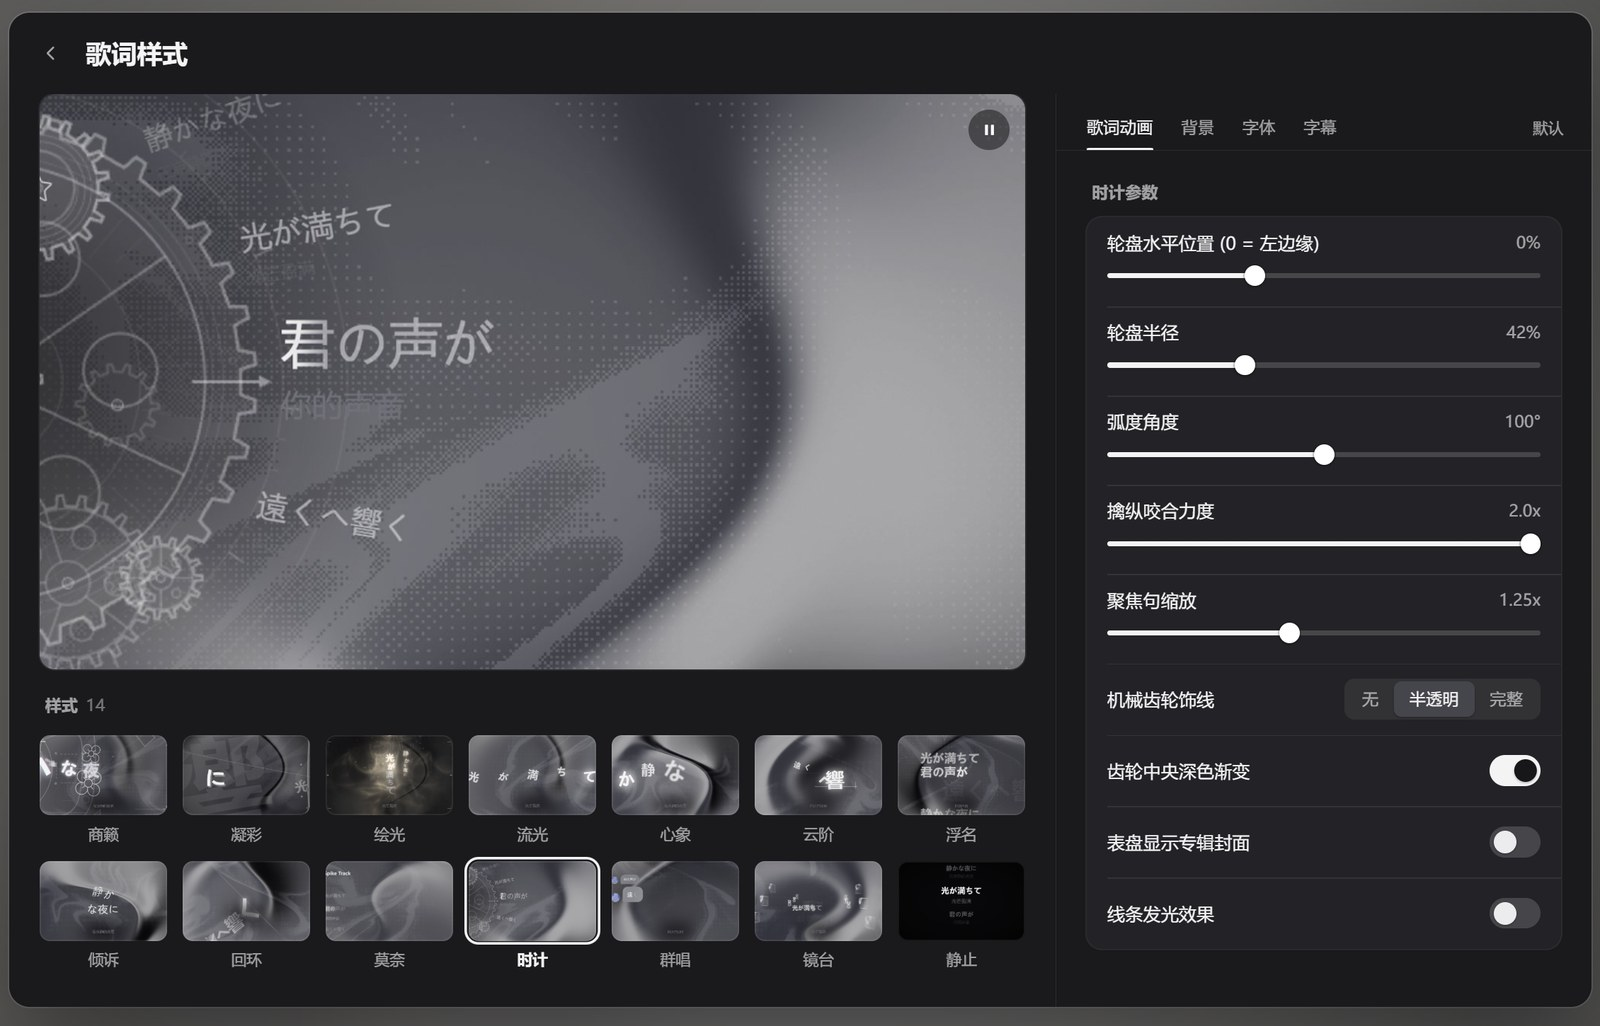
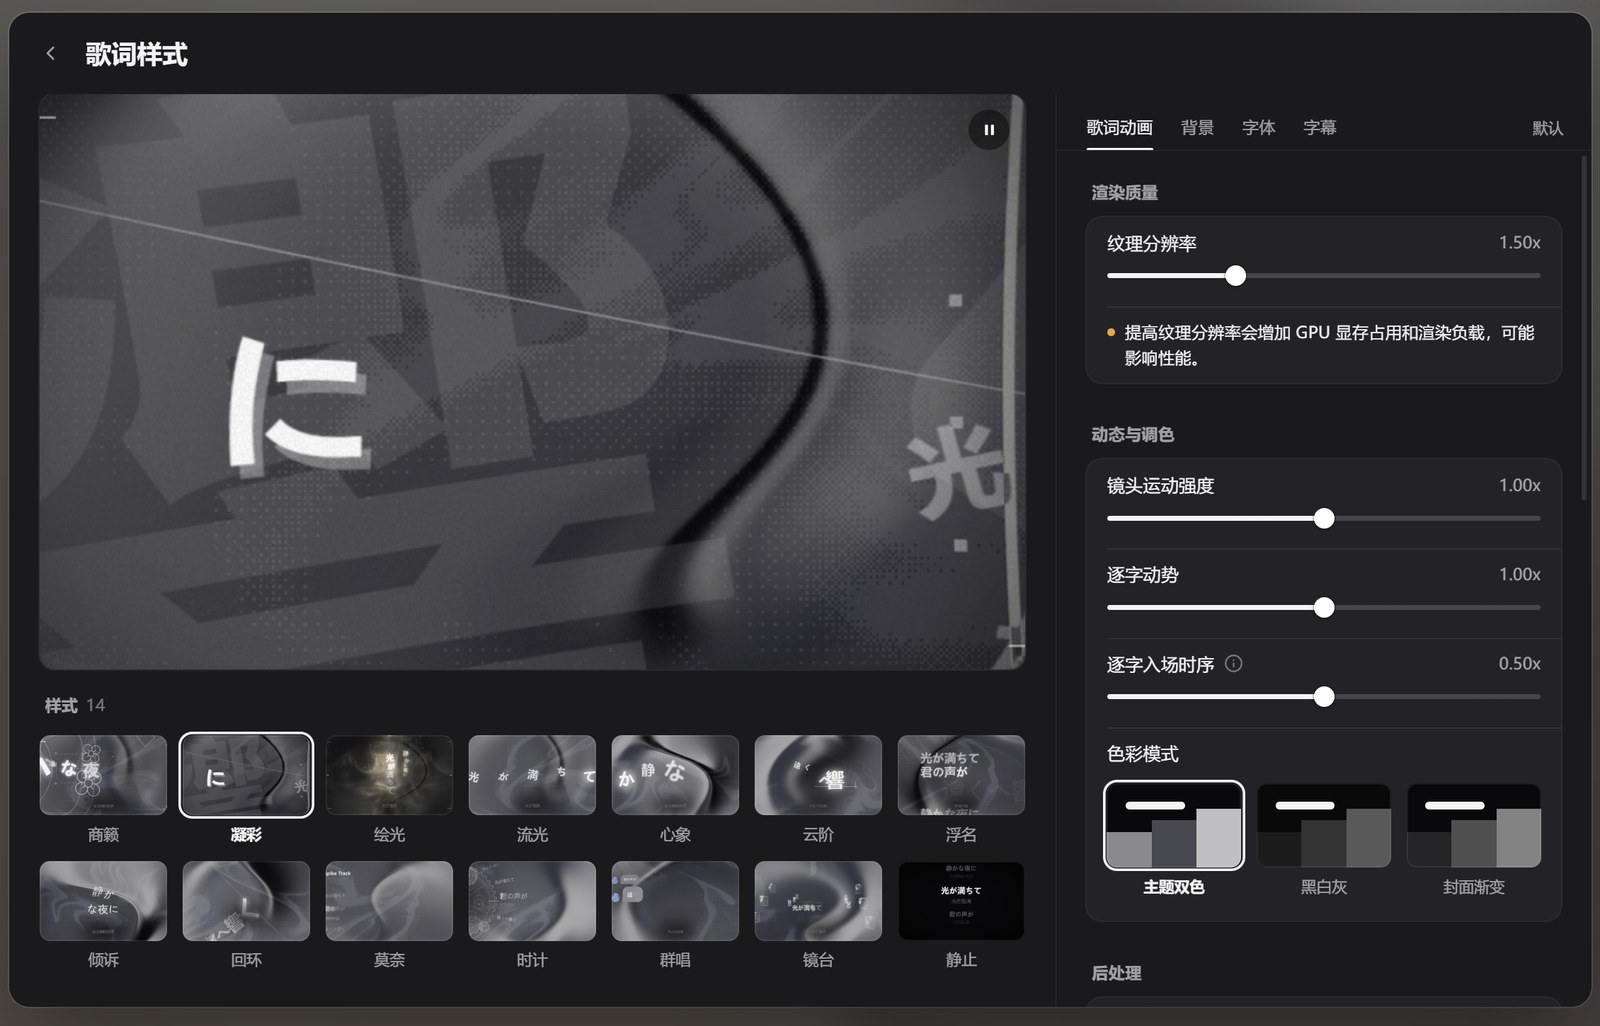
spw-folia v0.1.4: lyric-style preview follows selected style

diff --git a/poc/settings-ui/src/model/StylePreview.tsx b/poc/settings-ui/src/model/StylePreview.tsx
@@ -1,8 +1,13 @@
 /* The stage's big sample frame. Folia draws its live renderer here; the injected settings window
  * shows a real captured frame of the selected style instead (docs/folia-spec/assets.md explains
- * why: the live renderer needs the full playback data pipeline). Switching styles crossfades. */
-import React, { useEffect, useState } from 'react';
-import { stylePreviewUrl } from './assetBase';
+ * why: the live renderer needs the full playback data pipeline).
+ *
+ * Switching styles crossfades: the outgoing frame stays behind while the incoming one animates in
+ * via the `spw-preview-in` CSS keyframes. NOTE: a previous implementation drove both layers from a
+ * `fading` boolean inside an effect keyed on [src, current]; because setCurrent() retriggered the
+ * effect, its cleanup cancelled the crossfade timers and the preview could stay on the old style
+ * (reported m03519). This version keys the effect on `src` only and never blocks the incoming frame. */
+import React, { useEffect, useRef, useState } from 'react';
 import { getStyleEntry } from './styles';
 import type { StyleMode } from './settings';
 
@@ -14,30 +19,20 @@ const CROSSFADE_MS = 220;
 
 const StylePreview: React.FC<StylePreviewProps> = ({ mode }) => {
     const src = getStyleEntry(mode).thumb;
-    const [current, setCurrent] = useState(src);
     const [previous, setPrevious] = useState<string | null>(null);
-    const [fading, setFading] = useState(false);
+    const lastSrc = useRef<string>(src);
 
     useEffect(() => {
-        if (src === current) return undefined;
-        setPrevious(current);
-        setCurrent(src);
-        setFading(false);
-        // Two frames: start the outgoing one opaque, then flip so the incoming image fades in.
-        const raf = requestAnimationFrame(() => setFading(true));
-        const timer = setTimeout(() => {
-            setPrevious(null);
-            setFading(false);
-        }, CROSSFADE_MS);
-        return () => {
-            cancelAnimationFrame(raf);
-            clearTimeout(timer);
-        };
-    }, [src, current]);
+        if (lastSrc.current === src) return undefined;
+        setPrevious(lastSrc.current);
+        lastSrc.current = src;
+        const timer = setTimeout(() => setPrevious(null), CROSSFADE_MS);
+        return () => clearTimeout(timer);
+    }, [src]);
 
     return (
         <>
-            {previous && (
+            {previous && previous !== src && (
                 <img
                     key={previous}
                     src={previous}
@@ -45,16 +40,14 @@ const StylePreview: React.FC<StylePreviewProps> = ({ mode }) => {
                     aria-hidden="true"
                     draggable={false}
                     className="absolute inset-0 h-full w-full object-cover"
-                    style={{ opacity: fading ? 0 : 1, transition: `opacity ${CROSSFADE_MS}ms ease` }}
                 />
             )}
             <img
-                key={current}
-                src={current}
+                key={src}
+                src={src}
                 alt={getStyleEntry(mode).labelFallback}
                 draggable={false}
-                className="absolute inset-0 h-full w-full object-cover"
-                style={{ opacity: previous ? (fading ? 1 : 0) : 1, transition: `opacity ${CROSSFADE_MS}ms ease` }}
+                className="spw-preview-in absolute inset-0 h-full w-full object-cover"
             />
         </>
     );

diff --git a/poc/settings-ui/src/app.css b/poc/settings-ui/src/app.css
@@ -118,3 +118,17 @@ body.spw-injected {
     outline: 2px solid rgba(255, 255, 255, 0.6);
     outline-offset: 2px;
 }
+
+/* Big style preview: incoming frame fades in over the outgoing one (m03519). */
+@keyframes spw-preview-in {
+    from {
+        opacity: 0;
+    }
+    to {
+        opacity: 1;
+    }
+}
+
+.spw-preview-in {
+    animation: spw-preview-in 220ms ease both;
+}

diff --git a/spw-folia/src/main/kotlin/dev/spw/folia/FoliaPlugin.kt b/spw-folia/src/main/kotlin/dev/spw/folia/FoliaPlugin.kt
@@ -346,7 +346,7 @@ class FoliaPlugin(
 
     companion object {
         const val SPW_VERSION = "1.19.0"
-        const val PLUGIN_VERSION = "0.1.3"
+        const val PLUGIN_VERSION = "0.1.4"
 
         /** How long the start-up watcher waits for PF4J to instantiate the playback extension. */
         private const val EXTENSION_WATCH_MS = 20_000L

diff --git a/docs/verification-v0.1.4.md b/docs/verification-v0.1.4.md
@@ -1,0 +1,90 @@
+# v0.1.4 验证记录 — 歌词样式预览随所选样式实时切换
+
+日期：2026-10-19 · 对应需求：用户 m03519「修复歌词样式预览的无法随当前选定的模式实时改变」
+
+## 1. 根因
+
+`poc/settings-ui/src/model/StylePreview.tsx`（设置页大预览）的交叉淡入效果由
+`fading` 布尔状态驱动，而驱动它的 `useEffect` 依赖数组是 `[src, current]`：
+
+```tsx
+useEffect(() => {
+    if (src === current) return undefined;
+    setPrevious(current);
+    setCurrent(src);       // ← 改变 current 会重新触发本 effect
+    setFading(false);
+    const raf = requestAnimationFrame(() => setFading(true));
+    const timer = setTimeout(() => { setPrevious(null); setFading(false); }, CROSSFADE_MS);
+    return () => { cancelAnimationFrame(raf); clearTimeout(timer); };  // ← 新 effect 先清理旧定时器
+}, [src, current]);
+```
+
+`setCurrent(src)` 使依赖变化，effect 重新执行前先跑上一次的 cleanup，把 rAF 与 220ms 定时器都取消；
+新一次 effect 又因 `src === current` 提前返回。结果：第一次切换能淡入（rAF 恰好在 cleanup 前触发），
+此后每次切换都停留在旧图（新图 opacity 0、旧图 opacity 1）——即"预览不随所选模式改变"。
+
+修复前实测（本地 host harness，连续点击样式格）：`sonnet→tempera` 正常，`tempera→monet` 出现
+`tempera.jpg opacity=1` + `monet.jpg opacity=0`，之后切换全部停留在旧样式。
+
+## 2. 修复
+
+`StylePreview.tsx` 重写为不依赖 `current` 的两层结构：
+
+- effect 只依赖 `[src]`，用 `lastSrc` ref 记住上一张图；
+- 上一张图作为底层保持不透明，新图作为顶层用 CSS keyframes `spw-preview-in`（220ms，0→1）淡入；
+- 220ms 后移除底层；连续快速切换时每次都能正确显示新图。
+
+`app.css` 新增：
+
+```css
+@keyframes spw-preview-in { from { opacity: 0; } to { opacity: 1; } }
+.spw-preview-in { animation: spw-preview-in 220ms ease both; }
+```
+
+## 3. 修复后验证
+
+### 3.1 本地 host harness（`poc/hook/probe-style-preview.mjs`）
+
+依次点击样式格 商籁→凝彩→莫奈→时计→群唱→静止，读取大预览 `<img>`：
+
+| 点击 | 大预览（快照 600ms 后） |
+| --- | --- |
+| 商籁 | `sonnet.jpg` opacity 1 |
+| 凝彩 | `tempera.jpg` opacity 1 |
+| 莫奈 | `monet.jpg` opacity 1 |
+| 时计 | `pendolo.jpg` opacity 1 |
+| 群唱 | `cappella.jpg` opacity 1 |
+| 静止 | `still.jpg` opacity 1 |
+
+报告：`tmp-verify/preview-probe2/preview-report.json`；截图 `tmp-verify/preview-probe2/preview-*.png`。
+
+### 3.2 真实 SPW 1.19.0（v0.1.4 安装版）
+
+插件日志 `start: id=dev.spw.folia version=0.1.4 spw=1.19.0`、hook 安装、Folia 菜单点击 → 全屏窗口；
+真实鼠标点 ⚙ 打开设置页后依次点击样式格，截图：
+
+- `tmp-verify/v014-tempera.png` — 点击「凝彩」后：大预览变为凝彩画面，样式格高亮凝彩，右侧显示凝彩参数；
+- `tmp-verify/v014-monet.png` — 点击「莫奈」后：大预览变为莫奈画面，样式格高亮莫奈，右侧显示莫奈参数；
+- `tmp-verify/v014-still.png` — 点击「静止」后同理。
+
+README 使用的 `docs/images/settings-ui.jpg` 已更新为 v0.1.4 真实截图（凝彩选中）。
+
+## 4. 产物
+
+| 文件 | 大小 | sha256 |
+| --- | --- | --- |
[1 lines of base64/hex data omitted]
+
+manifest：`Plugin-Version: 0.1.4`、`Plugin-Provider: azkbzxf`、权限 `class-transform,library-read`；
+settings-ui bundle 1,054,069 B（新增预览淡入 CSS）。
+
+## 5. 复现命令
+
+```bash
+cd poc/settings-ui && npm run build        # 内容含 spw-preview-in keyframes
+cd spw-folia && ./gradlew.bat plugin
+bash packaging/build-package.sh
+python packaging/tools/assemble-release.py --spmod spw-folia/build/libs/plugin-dev.spw.folia-0.1.4.spmod \
+  --staging packaging --out dist/release --name spw-folia-0.1.4.spmod
+node poc/hook/probe-style-preview.mjs --out tmp-verify/preview-probe2
+```

diff --git a/README.en.md b/README.en.md
@@ -53,6 +53,16 @@ Bring [Folia](https://github.com/chthollyphile/folia-major)'s lyric visualizatio
   versions. See [docs/hook-target.md](docs/hook-target.md).
 - No music library writing; the plugin only reads playback state + the current track/lyrics/cover.
 
+## What's new in v0.1.4
+
+- **Fixed the lyric-style preview not following the selected style** — the big preview's crossfade
+  was driven by an effect keyed on `[src, current]`; `setCurrent()` retriggered the effect and its
+  cleanup cancelled the fade timers, so after the first switch the new frame stayed at opacity 0 while
+  the old one remained visible. It now uses an effect keyed on the target `src` only plus a CSS
+  `spw-preview-in` fade (220 ms): clicking any style tile instantly updates the preview, the parameter
+  panel and the selection highlight, even with rapid switching.
+- Evidence: [docs/verification-v0.1.4.md](docs/verification-v0.1.4.md).
+
 ## What's new in v0.1.3
 
 - **Mod manager author is now the GitHub account** — the plugin manifest `Plugin-Provider` changed from
@@ -114,7 +124,7 @@ The shipped payload was validated in real Salt Player for Windows 1.19.0 (MS cha
 Requirements: Windows 10/11 x64, **Salt Player for Windows 1.19.0**, WebView2 Runtime (preinstalled on
 Windows 11; Windows 10 can install "Microsoft Edge WebView2 Runtime").
 
-1. Download `spw-folia-0.1.3.spmod` from the [Releases](https://github.com/azkbzxf/spw-folia/releases) page (Windows x64).
+1. Download `spw-folia-0.1.4.spmod` from the [Releases](https://github.com/azkbzxf/spw-folia/releases) page (Windows x64).
 2. In SPW: **设置 → 插件 / 创意工坊 → 导入插件**, pick the `.spmod`, then enable it and grant
    **class-transform** (`钩子`) permission when asked (the plugin needs it for the 更多-menu hook).
 3. Restart SPW if the plugin manager asks for it.
@@ -132,7 +142,7 @@ Windows in-box `csc.exe` (.NET Framework 4.8) for the native helper. No .NET SDK
 ```bat
 :: 1) plugin (Kotlin, official SPW workshop Gradle plugin)
 cd spw-folia
-gradlew.bat plugin          :: -> build/libs/plugin-dev.spw.folia-0.1.3.spmod
+gradlew.bat plugin          :: -> build/libs/plugin-dev.spw.folia-0.1.4.spmod
 
 :: 2) native helper (C# + WebView2)
 cd ..\poc\webview\host
@@ -145,8 +155,8 @@ pnpm install && pnpm build  :: -> dist/settings-ui.js
 :: 4) assemble the distributable .spmod (plugin classes + staged web bundle + native + licenses)
 bash packaging/build-package.sh     :: stages packaging/{web,native,licenses} + SHA256SUMS
 python packaging/tools/assemble-release.py ^
-    --spmod spw-folia/build/libs/plugin-dev.spw.folia-0.1.3.spmod ^
-    --staging packaging --out dist --name spw-folia-0.1.3.spmod
+    --spmod spw-folia/build/libs/plugin-dev.spw.folia-0.1.4.spmod ^
+    --staging packaging --out dist --name spw-folia-0.1.4.spmod
 ::    see docs/release.md for the full, scripted assembly and local-install test loop.
 ```
 

diff --git a/docs/release-notes-v0.1.4.md b/docs/release-notes-v0.1.4.md
@@ -1,0 +1,38 @@
+# spw-folia v0.1.4 — 歌词样式预览随所选样式实时切换
+
+本次修复用户反馈（m03519）：设置页（歌词样式）左侧的大预览图不会随当前选中的样式改变，
+点击其它样式后预览仍停留在旧画面。
+
+## 修复内容
+
+- **预览交叉淡入逻辑重写** — 旧实现用 `[src, current]` 依赖的 effect 驱动淡入；`setCurrent()` 会
+  触发 effect 重新执行并清理掉自己的 rAF/定时器，导致第一次切换后新图一直停在 opacity 0
+  （旧图保持不透明）。现在 effect 只依赖目标图 `src`，旧图作底层、新图用 CSS keyframes
+  `spw-preview-in` 淡入，220ms 后移除底层；连续快速切换也不会卡住。
+- 点击任意样式格后：大预览立即切换到该样式的真实渲染帧，右侧参数面板与高亮同步更新。
+
+## 验证
+
+- 本地 host harness 连续点击 商籁→凝彩→莫奈→时计→群唱→静止，大预览图片依次变为
+  `sonnet/tempera/monet/pendolo/cappella/still.jpg`（全部 opacity 1）。
+- 真实 Salt Player for Windows 1.19.0 + v0.1.4 安装版：真实鼠标点 ⚙ 打开设置页，依次点击
+  「凝彩」「莫奈」「静止」，大预览与参数面板均同步切换（截图见 `docs/verification-v0.1.4.md`）。
+- 详情：[docs/verification-v0.1.4.md](https://github.com/azkbzxf/spw-folia/blob/main/docs/verification-v0.1.4.md)。
+
+## 产物
+
+| 文件 | 大小 | sha256 |
+| --- | --- | --- |
[1 lines of base64/hex data omitted]
+| `SHA256SUMS.txt` | 88 B | — |
+
+## 安装 / 升级
+
+1. 关闭 Salt Player for Windows；
+2. 在「模组管理」中删除旧版 spw-folia（或删除
+   `%APPDATA%\Salt Player for Windows\workshop\plugins\spw-folia-*`）；
+3. 导入 `spw-folia-0.1.4.spmod`，启用并授予 `class-transform`、`library-read` 权限；
+4. 重启后打开小播放器「更多」→「Folia」，右上角 ⚙ 打开设置页，点击样式格即可看到大预览实时切换。
+
+已知限制不变：仅支持 Salt Player for Windows 1.19.0（Windows 10/11 x64，需 WebView2 Runtime）；
+预览使用真实渲染帧的静态画面（非实时动画），随选择即时切换。

diff --git a/docs/acceptance-report.md b/docs/acceptance-report.md
@@ -149,3 +149,13 @@ mapping fix (font family/weight, subtitle fonts). Commands and raw evidence:
 | Real SPW 1.19.0 install of v0.1.3 | PASS — `start … version=0.1.3`, hook appended/clicked, spawn from installed `native/` payload, fullscreen 3200×2000, settings inject `?v=0.1.3`, real mouse ⚙ opens panel (no inert controls), ESC closes overlay then window, `host-exit code=0 reason=user … lastFps=120`, no orphan helper |
 
 | Cursor behaviour on v0.1.2 build | PASS — host log `cursor hide overlay=closed idleMs=2507`, returns on movement, forced visible while overlay open (unchanged from v0.1.1) |
+
+## Addendum — v0.1.4 regression (2026-10-19)
+
+Scope: lyric-style preview now follows the selected style (m03519). Evidence: `docs/verification-v0.1.4.md`.
+
+| check | result |
+| --- | --- |
+| Local host harness, 6 consecutive style clicks (商籁→凝彩→莫奈→时计→群唱→静止) | PASS — big preview img src follows each click (`sonnet/tempera/monet/pendolo/cappella/still.jpg`, opacity 1 after 600 ms), report `tmp-verify/preview-probe2/preview-report.json` |
+| Real SPW 1.19.0 + v0.1.4 install | PASS — menu click opens fullscreen, real mouse ⚙ opens panel; clicking 凝彩/莫奈/静止 updates the big preview, parameter panel and grid highlight simultaneously (screenshots `tmp-verify/v014-*.png`) |
+| Regression: prior v0.1.3 fixes intact | PASS — no inert controls, font family/weight mapping still applied, cover-colour theming unchanged |

diff --git a/docs/release.md b/docs/release.md
@@ -331,3 +331,20 @@ removed at build time (beat effects, custom/system fonts, romanisation & duet su
 backgrounds, tempera/monet/cappella uploads); group-C settings fixed by mapping font family/weight and
 subtitle fonts into `theme` / `subtitleTheme`. See `docs/verification-v0.1.3.md`,
 `docs/known-inert-settings.md`, `docs/release-notes-v0.1.3.md`.
+
+### v0.1.4 release artifact (final)
+
+```
+dist/release/spw-folia-0.1.4.spmod   12,405,269 B   1,937 entries
+sha256  24ddaf34982a6acb9b92943ead1123d6dfb34ed4c9ae082c94ed2e7d1d82c04e
+manifest: Plugin-Version 0.1.4 / Plugin-Provider azkbzxf / permissions class-transform,library-read
+payload plugin classes/            : gradle plugin-dev.spw.folia-0.1.4.spmod 86,955 B
+        native/spw-folia-host.exe  : d75b97cbc692ab5e05b5b0cf2d2177002526849181a8787252a11cba896f71ad
+        web/                       : complete Folia 0.7.21 OBS bundle + settings island
+                                     (settings-ui.js 1,054,069 B; preview crossfade fix)
+        licenses/                  : AGPL-3.0 + NOTICE + SOURCE-OFFER + THIRD-PARTY + AUDIO-MIT
+```
+
+v0.1.4 changes: the settings page's big style preview now follows the selected style (effect keyed on
+the target src + CSS `spw-preview-in` fade). See `docs/verification-v0.1.4.md`,
+`docs/release-notes-v0.1.4.md`.
